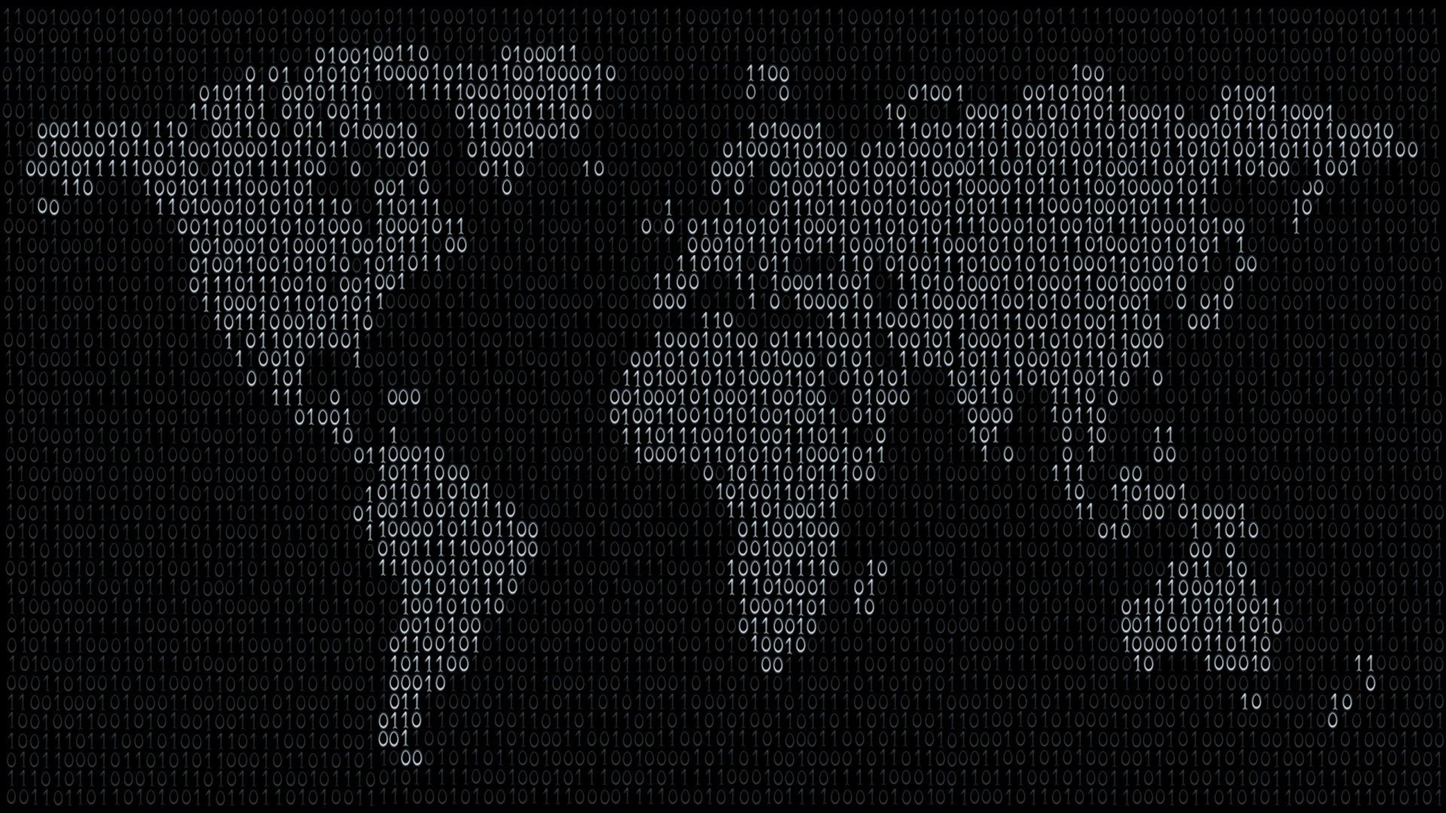
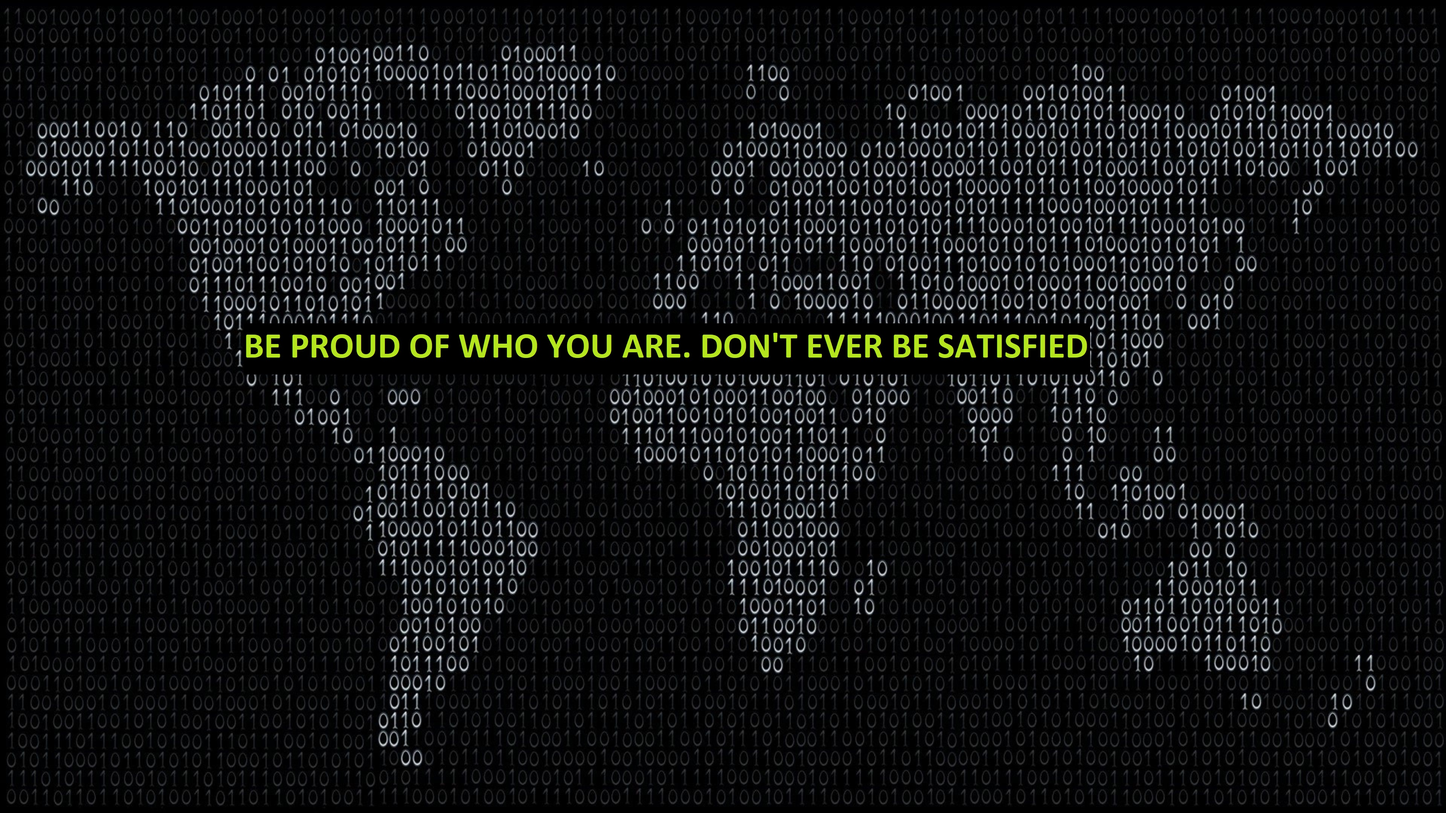
Update 2/9

Changed region(s): [[0.1562, 0.4032, 0.75, 0.4653]]

diff --git a/index.html b/index.html
@@ -13,15 +13,17 @@
     <a name="top"></a>
     <div class="banner">
         <h1 class="banner-head">
-            <!-- <img src="./img/coding.jpg"> -->
             "Be proud of who you are and what you have accomplished but,<br> do not ever be satisfied. There is always
             room for improvement."
         </h1>
     </div>
 
     <header>
-        <h1>Welcome</h1>
-        <span>Lorem ipsum dolor sit..</span>
+        <h1>Hello, <br> I am Herson Sosa.</h1>
+        <span>Welcome to my portfolio. Follow for more information: &emsp;&emsp;&emsp;&emsp;&emsp;&emsp;&emsp;&emsp;&emsp;</span>
+        <a href="./img/Resume PDF - Herson Sosa.pdf" target="_blank"><img src="./img/cv lrge.jpg" class="icon"></a>
+        <a href="https://www.linkedin.com/in/hersonsosa1/" target="_blank"><img src="./img/new-linkedin-logo-white-black-png-800x800.png" class="icon"></a>
+        <a href="https://github.com/hersonsosa" target="_blank"><img src="./img/github-icon-for-resume-12.jpg" class="icon"></a>      
     </header>
 
     <main>
@@ -39,8 +41,7 @@
                 consectetur.
 
             </p>
-            <a href="./img/Resume PDF - Herson Sosa.pdf" target="_blank">Download Resume</a>
-            <a href="img/796835.jpg" target="_blank">look at this</a>
+            <!-- <a href="./img/Resume PDF - Herson Sosa.pdf" target="_blank">Download Resume</a> -->
         </section>
 
         <section id="projects">
@@ -96,30 +97,33 @@
             </p>
         </section>
         <section id="contact">
-            <h2>Contact Me</h2>
-            <p>
-            </p>
+            <h2>Contact Me&emsp;&emsp;&emsp;&emsp;&emsp;&emsp;&emsp;&emsp;&emsp;&emsp;&emsp;&emsp;&emsp;&emsp;&emsp;&emsp;&emsp;&emsp;&emsp;&emsp;&emsp;&emsp;&emsp;&emsp;&emsp;&emsp;
+            <a href="./img/Resume PDF - Herson Sosa.pdf" target="_blank"><img src="./img/cv lrge.jpg" class="icon"></a>
+            <a href="https://www.linkedin.com/in/hersonsosa1/" target="_blank"><img src="./img/new-linkedin-logo-white-black-png-800x800.png" class="icon"></a>
+            <a href="https://github.com/hersonsosa" target="_blank"><img src="./img/github-icon-for-resume-12.jpg" class="icon"></a>      
+            </h2>
             <div class="container">
                 <form action="https://formspree.io/f/xdobewwl" method="POST">
-                <div class="form-group">
-                    <label for="firstName"> First Name</label>
-                    <input type="text" id="firstName" name="firstName">
-                  </div>
+
+                    <div class="form-group">
+                        <label for="firstName"> First Name</label>
+                        <input type="text" id="firstName" name="firstName">
+                    </div>
             
-                  <div class="form-group">
-                    <label for="latsName">Last Name</label>
-                    <input type="text" id="lastName" name="lastName">
-                  </div>
+                    <div class="form-group">
+                        <label for="lastName">Last Name</label>
+                        <input type="text" id="lastName" name="lastName">
+                    </div>
             
-                  <div class="form-group">
-                    <label for="email">Email</label>
-                    <input type="email" id="email" name="email">
-                  </div>
+                    <div class="form-group">
+                        <label for="email">Email</label>
+                        <input type="text" id="email" name="email">
+                    </div>
             
-                  <div class="form-group">
-                    <label for="massage">Massage</label>
-                    <textarea name="massage" id="massage" cols="30" rows="10"></textarea>
-                  </div>
+                    <div class="form-group">
+                        <label for="message">Message</label>
+                        <textarea name="message" id="message" cols="30" rows="10"></textarea>
+                    </div>
             
                   <button type="submit">Submit</button>
                 </form>

diff --git a/css/styles.css b/css/styles.css
@@ -5,59 +5,79 @@
     margin: 0;
     padding: 0;
 }
+
 html{
     font-size: 16px;
+}
+.banner {
+    background: transparent url("/img/Featured-Image-1024x768.jpg") no-repeat center fixed;
+    background-size: cover;
+    text-align: center;
+    height: 600px;
+    width: 100%;
+    margin-bottom: 3em;
+    display: table;
+}
+.banner-head {
+    display: table-cell;
+    vertical-align:middle;
+    margin-bottom: 0;
+    color: white;
+    font-size: 30px;
+    text-shadow: 0.07em 0 black,0 0.07em black,-0.07em 0 black, 0 -0.07em black;
 }
 
 header,
 main,
 footer {
     margin: 0 auto;
-    max-width: 1000px;
+    max-width: 1500px;
 }
 body{
     background-color: white;
 }
 
 header {
-    padding: 2em 0;
+    padding: 1em 0;
 }
-.banner h1{
-    font-size: 1.5em;
-    font-weight: 900;
-    font-style: italic;
-}
-
 header h1{
-    font-size: 2em;
+    font-size: 2.5em;
+    margin: 1em;
 }
 header span{
-    font-size: 1.5;
+    font-size: 1.5em;
+    margin: 1.5em;
     color: #999;
+    
 }
-
+.icon{
+    height: 40px;
+    width: auto;
+}
+.span{
+    margin: auto;
+}
 nav {
     position: fixed;
     top: 0;
     left: 0;
     width: 100%;
-    height: 3em;
+    height: 3.5em;
 
     display: flex;
     flex-flow: row;
-    justify-content: center;
-    background: #333;
+    justify-content:center;
+    background: rgb(8, 75, 151);
 }
-
 nav a {
     padding: .5em 2em;
     font-size: 1.685em;
+    font-weight: 600;
     text-decoration: none;
-    color: #fff;
+    color: black;
 }
-
 nav a:hover {
-    background: #666;
+    background: white;
 }
 section{
     margin: 1em 0;
@@ -80,85 +100,40 @@ section ul{
 }
 #projectlist article img{
     width: 100%;
-    border: 1px solid #333;
+    border: 10px solid rgb(8, 75, 151);
 }
-
-.banner {
-    background: transparent url(https://wallpaperforu.com/wp-content/uploads/2021/09/Coding-Wallpapers10.jpg) 0 0 no-repeat fixed;
-    text-align: center;
-    background-size: cover;
-    height: 500px;
-    width: 100%;
-    margin-bottom: 3em;
-    display: table;
-}
-
-.banner-head {
-    display: table-cell;
-    vertical-align: middle;
-    margin-bottom: 0;
-    color: white;
-    font-weight: 500;
-    text-shadow: 1px 0 0 #000, 0 -1px 0 #000, -1px 0 0 #000;
-}
-
+  
+.skills {
+    text-align: right;
+    padding-top: 10px;
+    padding-bottom: 10px;
+    color: #000;
+ }
+ .java {width: 60%; background-color: green;}
+ .html {width: 10%; background-color: yellowgreen;}
+ .css {width: 5%; background-color: turquoise;}
+ .js {width: 2%; background-color: violet;}
+ .python {width: 65%; background-color: orangered;}
 
 *{box-sizing:border-box}
 
  .container {
    width: 100%;
-   background-color: #ddd;
- }
+   background-color: rgba(5, 34, 196, 0.582);
+}
+.container {
+    border-radius: 8px;
+    background-color: #f2f2f2;
+    padding: 10px;
+}
 
 input[type=text], select, textarea {
     width: 100%;
-    padding: 12px;
-    border: 1px solid #ccc;
-    border-radius: 4px;
+    padding: 10px;
+    border: 1px solid rgb(8, 75, 151);
+    border-radius: 10px;
     box-sizing: border-box;
-    margin-top: 6px;
-    margin-bottom: 16px;
+    margin-top: 5px;
+    margin-bottom: 10px;
     resize: vertical 
 }
-  
-  
-input[type=submit] {
-    background-color: #04AA6D;
-    color: white;
-    padding: 12px 20px;
-    border: none;
-    border-radius: 4px;
-    cursor: pointer;
-}
-input[type=reset] {
-    background-color: #04AA6D;
-    color: white;
-    padding: 12px 20px;
-    border: none;
-    border-radius: 4px;
-    cursor: pointer;
-}
-input[type=submit]:hover {
-    background-color: #45a049;
-}
-input[type=reset]:hover {
-    background-color: #45a049;
-}
-  
-.container {
-    border-radius: 5px;
-    background-color: #f2f2f2;
-    padding: 20px;
-}
-  
-.skills {
-   text-align: right;
-   padding-top: 10px;
-   padding-bottom: 10px;
-   color: #000;
-}
-.java {width: 60%; background-color: green;}
-.html {width: 10%; background-color: yellowgreen;}
-.css {width: 5%; background-color: turquoise;}
-.js {width: 2%; background-color: violet;}
-.python {width: 65%; background-color: orangered;}
